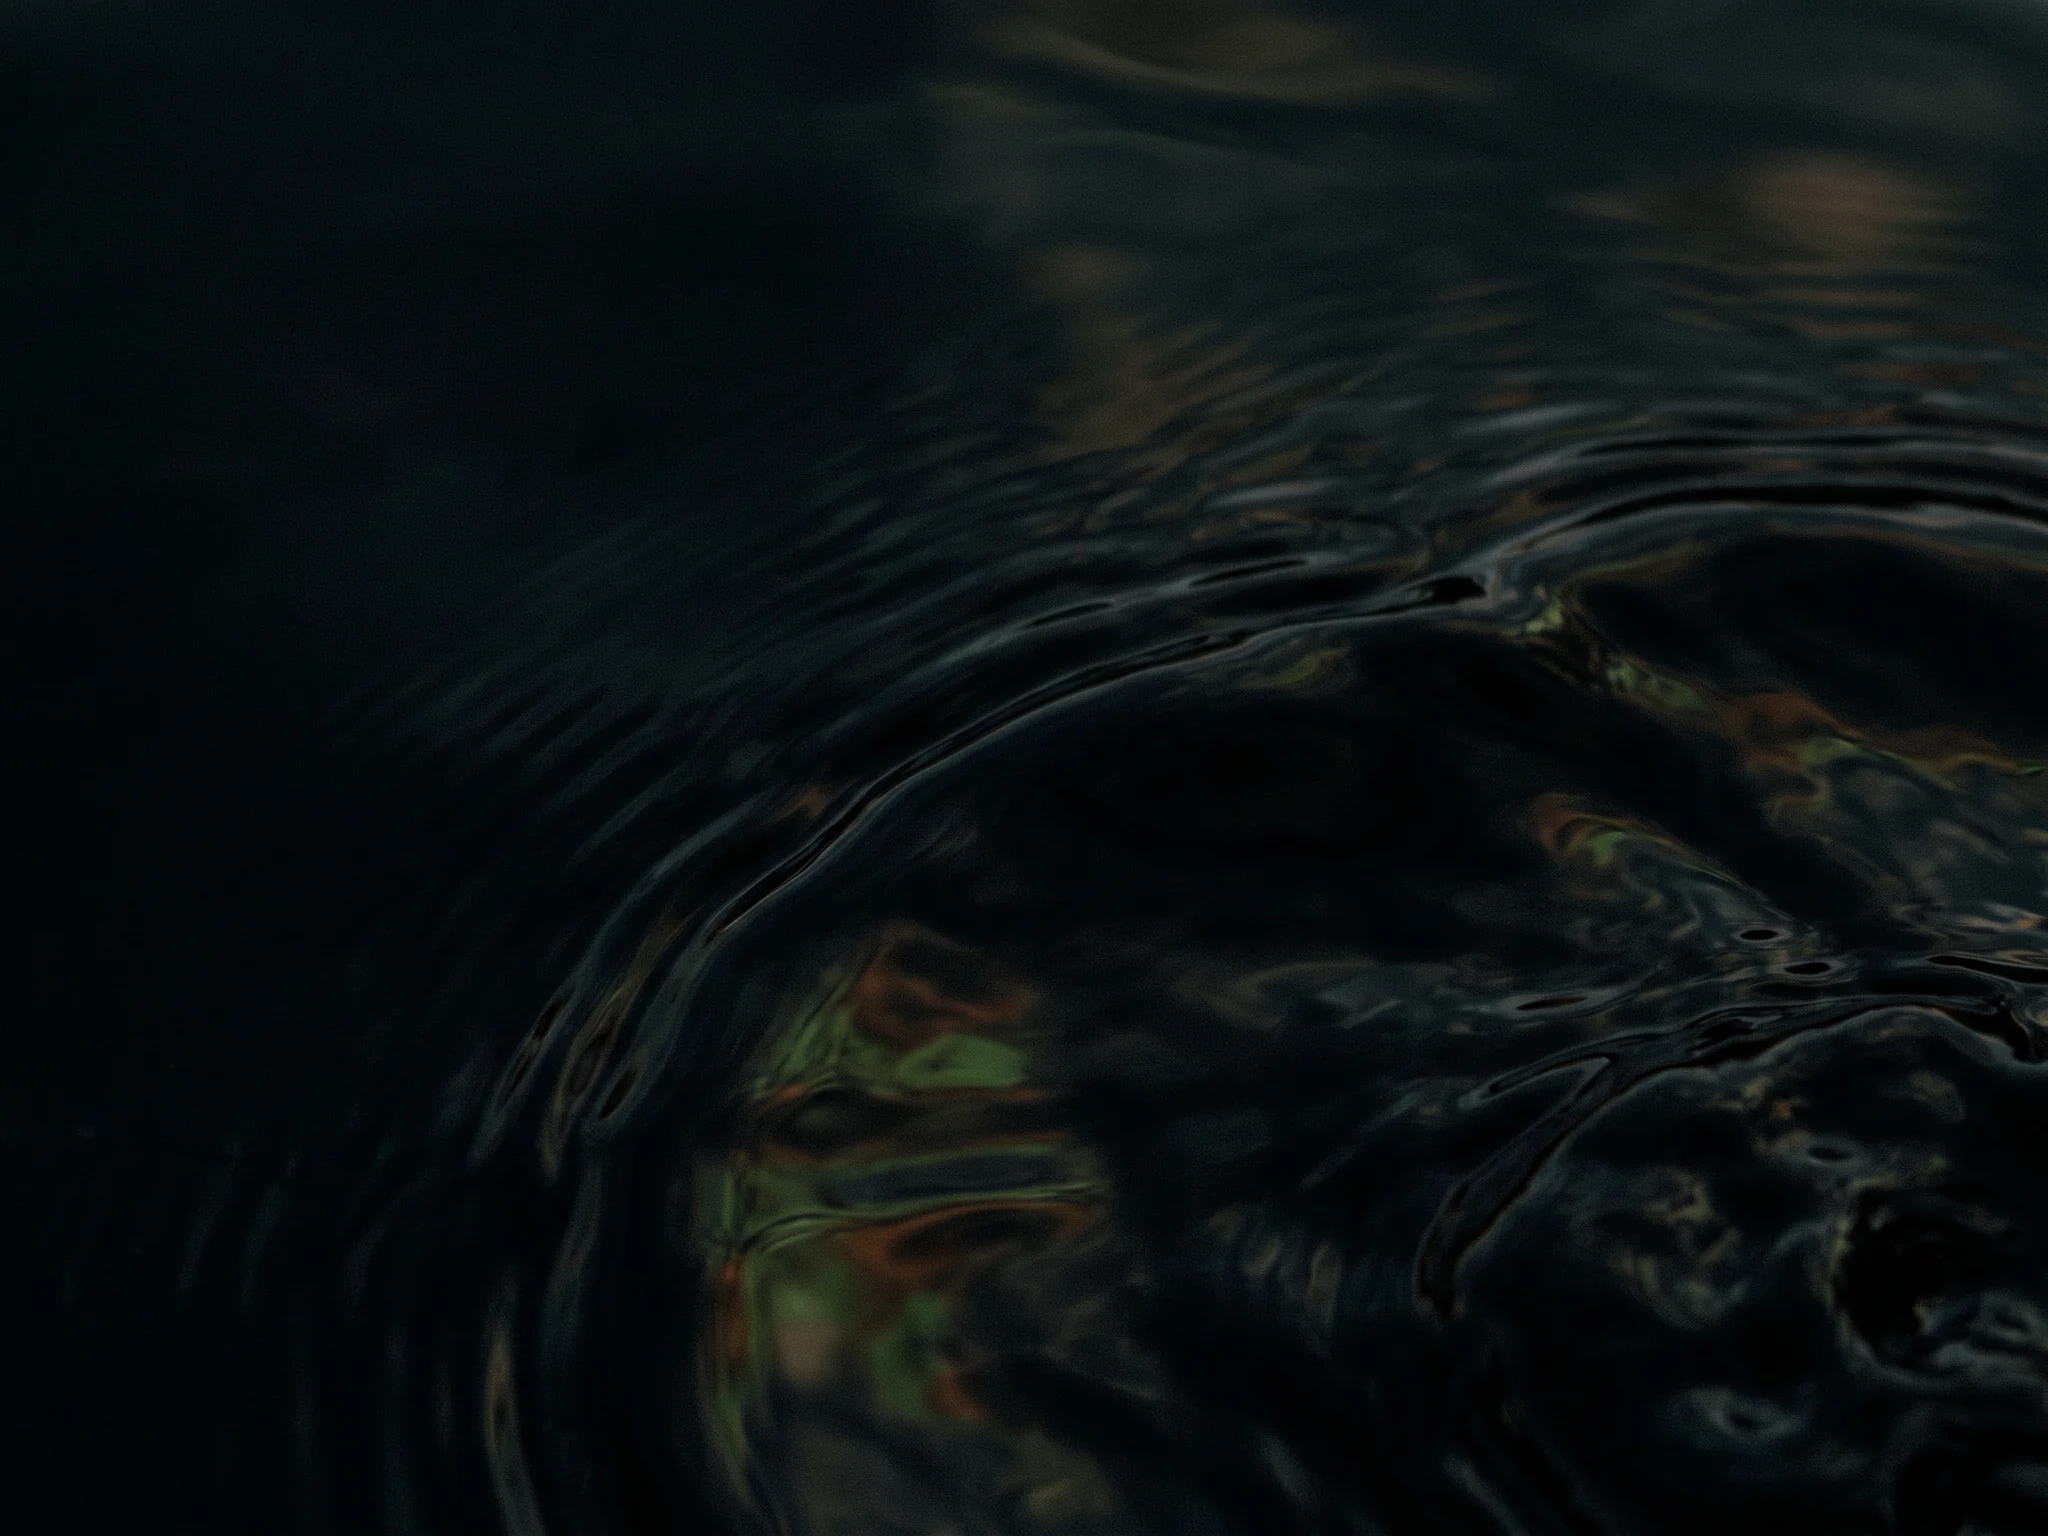
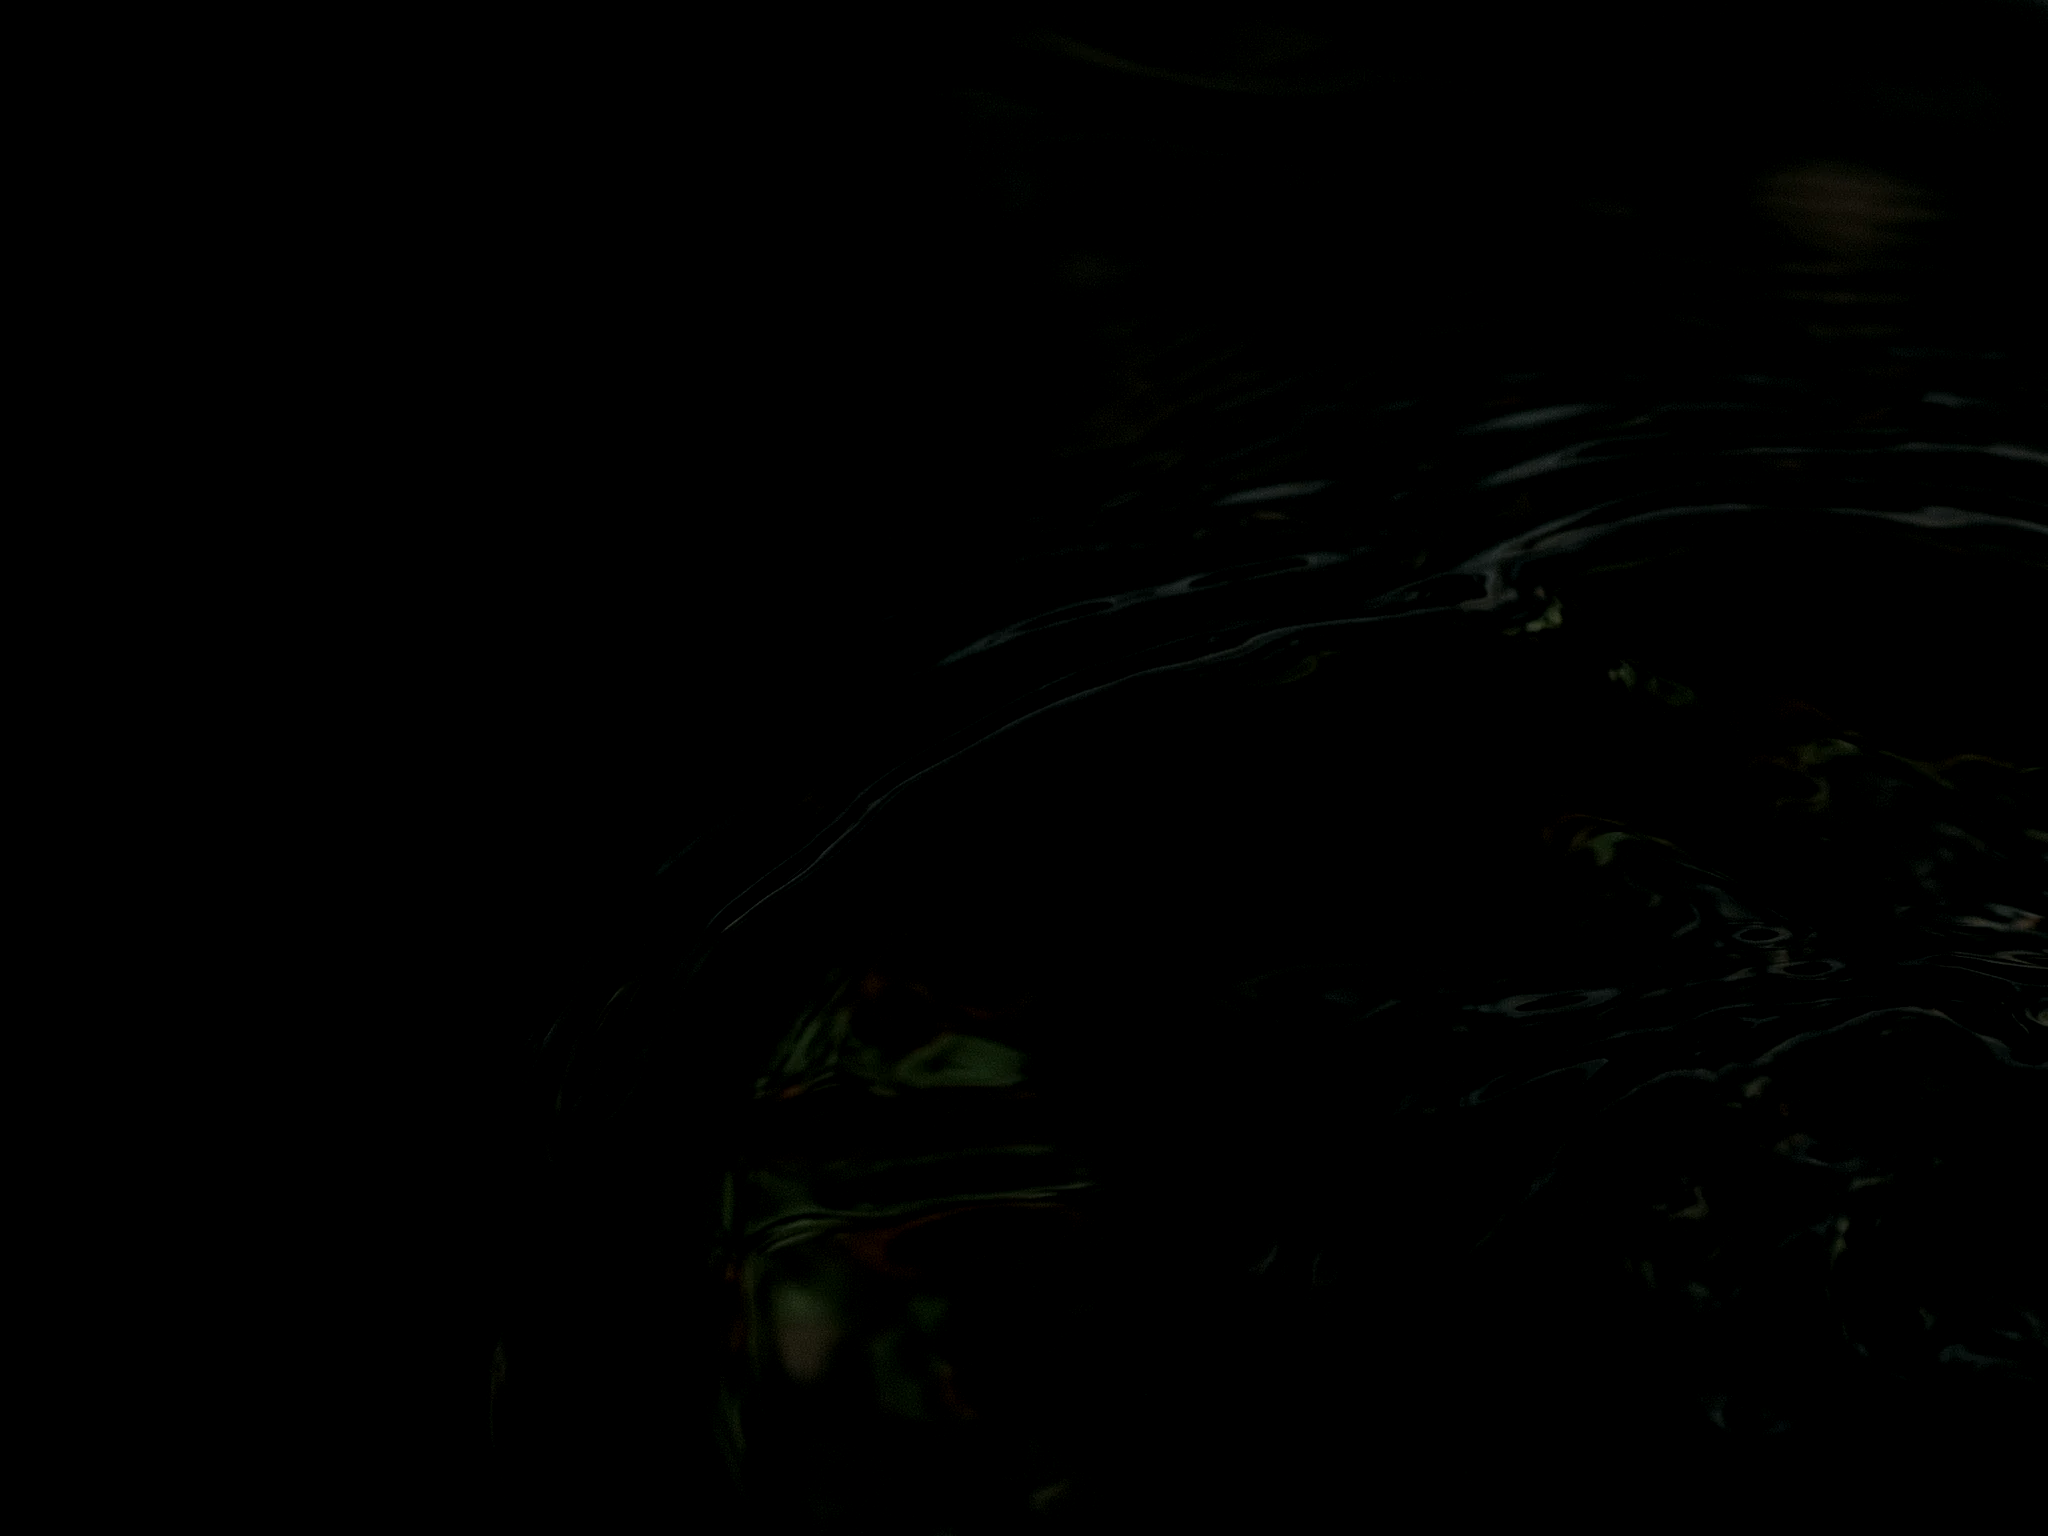
LOD-2 refine posters after art direction review

diff --git a/docs/ai/reviews/LOD-2-art-direction.md b/docs/ai/reviews/LOD-2-art-direction.md
@@ -1,0 +1,45 @@
+# LOD-2 art-direction review
+
+Verdict: **APPROVE concept; poster refinements required before experience work**
+
+The independent art-director approved the corrected system—macro black water as
+the environment, the original fisherman as a restrained separate artifact, and
+one real image-to-ASCII transition—as materially stronger and more credible than
+the rejected literal fisherman generations.
+
+## Blocking findings
+
+- Reduce the AI-liquid appearance by lowering color saturation and midtones.
+- Treat the shader as subtle displacement of the real texture, not as a new
+  procedural blob.
+- Keep the engraving and ASCII output pixel-registered.
+- Generate ASCII from `public/fishman.png` luminance; do not use contour art,
+  matrix rain, typing, or random flicker.
+- Sequence water, engraving, ASCII, and copy so they do not peak together.
+- Art-direct mobile separately rather than using a central desktop crop.
+
+## Locked implementation values
+
+- Desktop optical energy: `x 58–92%`, `y 52–88%`.
+- Mobile: upper 40% nearly black; water energy begins below roughly 58%.
+- Color reflections cover no more than 8–10% of the image.
+- Water drift: 18–26 second cycle, 3–6px desktop displacement, 2–4px mobile,
+  scale no higher than 1.02.
+- Fisherman peak opacity: 0.58–0.70; exclude the final 7–9% of the source image
+  to prevent the fishing line from reading as a UI divider.
+- ASCII: 112–132 columns desktop, 56–72 mobile, character ramp
+  ` .·:+*#@`, luminance below 24/255 transparent.
+- Reduced motion: static poster, normal document scroll, one static ASCII
+  artifact, no water deformation.
+
+## Resolution
+
+- Desktop and 4:3 water exports were desaturated and darkened.
+- The portrait poster was rebuilt as a separate black-first composition with
+  the water field restricted to the lower portion.
+- The generated contour/signal exports were removed.
+- The hero storyboard now specifies code-native luminance sampling of the
+  original engraving.
+
+The final visual approval still depends on browser screenshots from the
+implemented experience milestone.
